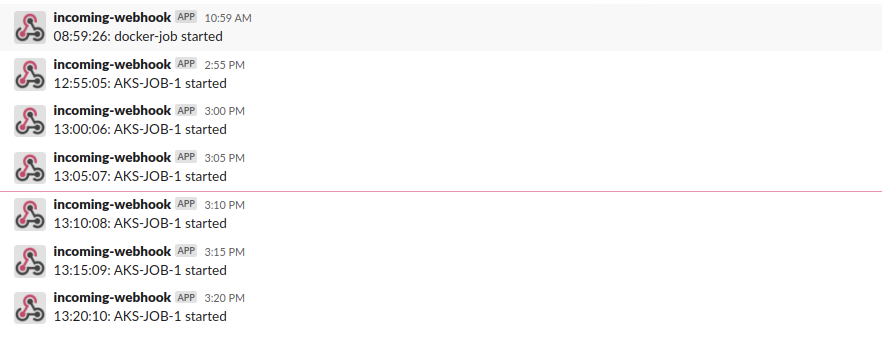
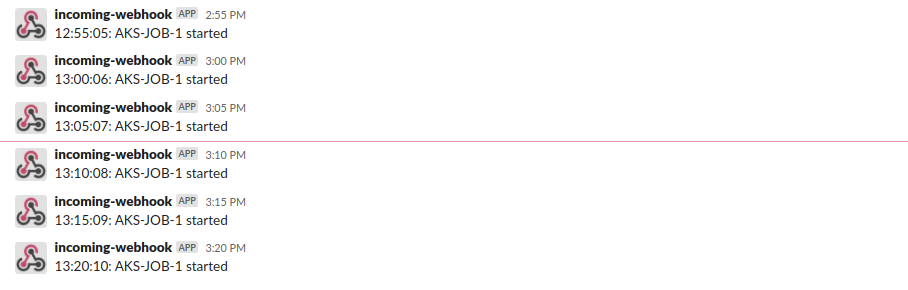
processing readme

Changed region(s): [[0.0, 0.031, 1.0, 0.9621]]

diff --git a/README.md b/README.md
@@ -507,3 +507,13 @@ app-job-1   */5 * * * *   False     0        18s             4m49s
 Application is running in Kubernetes cluster and sending messages to slack.
 
 <img src="https://github.com/viktorsapozhok/kubernetes-cronjob-tutorial/blob/master/docs/source/images/slack_3.png?raw=true" width="700">
+
+Let's delete the job from cluster and redeploy it in more general way.
+
+```bash
+$ kubectl --namespace app delete cronjob app-job-1
+cronjob.batch "app-job-1" deleted
+```
+
+## 7. Automate deployment to AKS with Makefile
+
